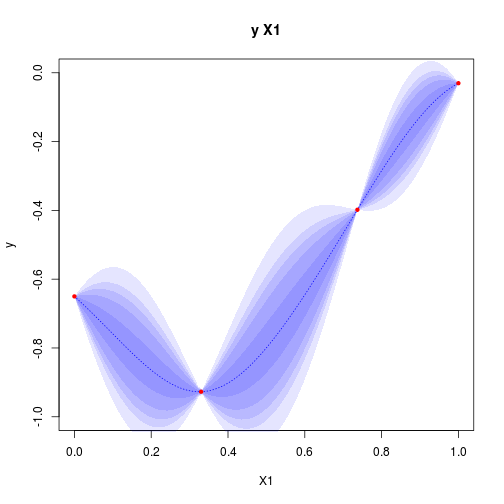
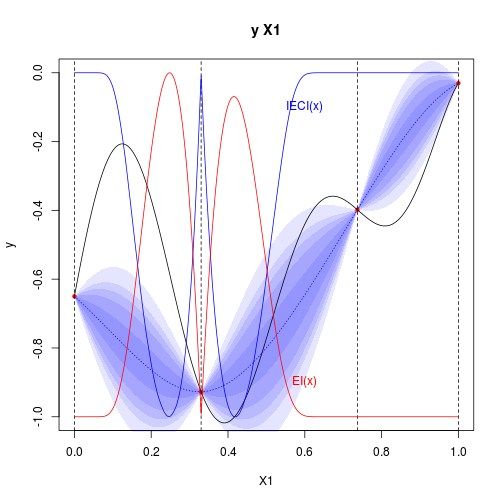
changes for better latex rendering and cleanup images

diff --git a/README.md b/README.md
@@ -157,19 +157,8 @@ Overall criterions values (EI and IECI):
 par(mfrow=c(1,1))
 
 sectionview.km(kmi,ylim=c(-1,0))
-```
+abline(v=X$X,lty=2)
 
-![plot of chunk unnamed-chunk-5](figure/unnamed-chunk-5-1.png) 
-
-```r
-abline(v=X,lty=2)
-```
-
-```
-## Error in int_abline(a = a, b = b, h = h, v = v, untf = untf, ...): l'objet (list) ne peut être converti automatiquement en un type 'double'
-```
-
-```r
 n=function(x){(x-min(x))/(max(x)-min(x))-1}
 
 xx=seq(f=0,t=1,l=1000)
@@ -210,126 +199,128 @@ lines(xx,n(EI(xx,model=kmi)),col='red')
 text(labels="EI(x)",x=0.6,y=0.1-1,col='red')
 ```
 
+![plot of chunk unnamed-chunk-5](figure/unnamed-chunk-5-1.png) 
+
 
 
 ## Analytical development of IECI:
 
 
-<img src="https://rawgit.com/IRSN/IECI/master/eq_no_01.png" alt="Equation Fail">
+<img src="https://rawgit.com/IRSN/IECI/master//figure/eq_no_01.png" height="30">
 
 
 ### Computable form of ECI
 
 ECI is viewed in two main parts : updated realizations where the new conditional point 
-<img src="https://rawgit.com/IRSN/IECI/master/eq_no_37.png" alt="Equation Fail">
+<img src="https://rawgit.com/IRSN/IECI/master//figure/eq_no_37.png" height="30">
  is below current minimum 
-<img src="https://rawgit.com/IRSN/IECI/master/eq_no_38.png" alt="Equation Fail">
+<img src="https://rawgit.com/IRSN/IECI/master//figure/eq_no_38.png" height="30">
 , and updated realizations where the new conditional point 
-<img src="https://rawgit.com/IRSN/IECI/master/eq_no_39.png" alt="Equation Fail">
+<img src="https://rawgit.com/IRSN/IECI/master//figure/eq_no_39.png" height="30">
  is over current minimum 
-<img src="https://rawgit.com/IRSN/IECI/master/eq_no_40.png" alt="Equation Fail">
+<img src="https://rawgit.com/IRSN/IECI/master//figure/eq_no_40.png" height="30">
  (which then does not change this current minimum for EI calculation):
 
 
-<img src="https://rawgit.com/IRSN/IECI/master/eq_no_02.png" alt="Equation Fail">
+<img src="https://rawgit.com/IRSN/IECI/master//figure/eq_no_02.png" height="30">
 
 
 * 
-<img src="https://rawgit.com/IRSN/IECI/master/eq_no_41.png" alt="Equation Fail">
+<img src="https://rawgit.com/IRSN/IECI/master//figure/eq_no_41.png" height="30">
  part: 
 
-<img src="https://rawgit.com/IRSN/IECI/master/eq_no_03.png" alt="Equation Fail">
+<img src="https://rawgit.com/IRSN/IECI/master//figure/eq_no_03.png" height="30">
  
 
-<img src="https://rawgit.com/IRSN/IECI/master/eq_no_04.png" alt="Equation Fail">
+<img src="https://rawgit.com/IRSN/IECI/master//figure/eq_no_04.png" height="30">
 
 Change variable: 
-<img src="https://rawgit.com/IRSN/IECI/master/eq_no_42.png" alt="Equation Fail">
+<img src="https://rawgit.com/IRSN/IECI/master//figure/eq_no_42.png" height="30">
 
   -  
-<img src="https://rawgit.com/IRSN/IECI/master/eq_no_43.png" alt="Equation Fail">
+<img src="https://rawgit.com/IRSN/IECI/master//figure/eq_no_43.png" height="30">
 
   -  
-<img src="https://rawgit.com/IRSN/IECI/master/eq_no_44.png" alt="Equation Fail">
+<img src="https://rawgit.com/IRSN/IECI/master//figure/eq_no_44.png" height="30">
 
   -  
-<img src="https://rawgit.com/IRSN/IECI/master/eq_no_45.png" alt="Equation Fail">
+<img src="https://rawgit.com/IRSN/IECI/master//figure/eq_no_45.png" height="30">
 
   
 So,
 
-<img src="https://rawgit.com/IRSN/IECI/master/eq_no_05.png" alt="Equation Fail">
+<img src="https://rawgit.com/IRSN/IECI/master//figure/eq_no_05.png" height="30">
 
 
-<img src="https://rawgit.com/IRSN/IECI/master/eq_no_06.png" alt="Equation Fail">
+<img src="https://rawgit.com/IRSN/IECI/master//figure/eq_no_06.png" height="30">
 
 Considering that ([@KrigingUpdate]),
 
-<img src="https://rawgit.com/IRSN/IECI/master/eq_no_07.png" alt="Equation Fail">
+<img src="https://rawgit.com/IRSN/IECI/master//figure/eq_no_07.png" height="30">
 
 
-<img src="https://rawgit.com/IRSN/IECI/master/eq_no_08.png" alt="Equation Fail">
+<img src="https://rawgit.com/IRSN/IECI/master//figure/eq_no_08.png" height="30">
 
 
 Finally, 
-<img src="https://rawgit.com/IRSN/IECI/master/eq_no_09.png" alt="Equation Fail">
+<img src="https://rawgit.com/IRSN/IECI/master//figure/eq_no_09.png" height="30">
 
 
-<img src="https://rawgit.com/IRSN/IECI/master/eq_no_10.png" alt="Equation Fail">
+<img src="https://rawgit.com/IRSN/IECI/master//figure/eq_no_10.png" height="30">
 
 Given,
 
-<img src="https://rawgit.com/IRSN/IECI/master/eq_no_11.png" alt="Equation Fail">
+<img src="https://rawgit.com/IRSN/IECI/master//figure/eq_no_11.png" height="30">
 
 
-<img src="https://rawgit.com/IRSN/IECI/master/eq_no_12.png" alt="Equation Fail">
+<img src="https://rawgit.com/IRSN/IECI/master//figure/eq_no_12.png" height="30">
 
 
 
 
 
 * 
-<img src="https://rawgit.com/IRSN/IECI/master/eq_no_46.png" alt="Equation Fail">
+<img src="https://rawgit.com/IRSN/IECI/master//figure/eq_no_46.png" height="30">
  part: 
 
-<img src="https://rawgit.com/IRSN/IECI/master/eq_no_13.png" alt="Equation Fail">
+<img src="https://rawgit.com/IRSN/IECI/master//figure/eq_no_13.png" height="30">
 
 
-<img src="https://rawgit.com/IRSN/IECI/master/eq_no_14.png" alt="Equation Fail">
+<img src="https://rawgit.com/IRSN/IECI/master//figure/eq_no_14.png" height="30">
 
 Change variable: 
-<img src="https://rawgit.com/IRSN/IECI/master/eq_no_47.png" alt="Equation Fail">
+<img src="https://rawgit.com/IRSN/IECI/master//figure/eq_no_47.png" height="30">
 
   -  
-<img src="https://rawgit.com/IRSN/IECI/master/eq_no_48.png" alt="Equation Fail">
+<img src="https://rawgit.com/IRSN/IECI/master//figure/eq_no_48.png" height="30">
 
   -  
-<img src="https://rawgit.com/IRSN/IECI/master/eq_no_49.png" alt="Equation Fail">
+<img src="https://rawgit.com/IRSN/IECI/master//figure/eq_no_49.png" height="30">
 
   -  
-<img src="https://rawgit.com/IRSN/IECI/master/eq_no_50.png" alt="Equation Fail">
+<img src="https://rawgit.com/IRSN/IECI/master//figure/eq_no_50.png" height="30">
 
 
 So,
 
-<img src="https://rawgit.com/IRSN/IECI/master/eq_no_15.png" alt="Equation Fail">
+<img src="https://rawgit.com/IRSN/IECI/master//figure/eq_no_15.png" height="30">
 
 
-<img src="https://rawgit.com/IRSN/IECI/master/eq_no_16.png" alt="Equation Fail">
+<img src="https://rawgit.com/IRSN/IECI/master//figure/eq_no_16.png" height="30">
 
 
 Finally, 
-<img src="https://rawgit.com/IRSN/IECI/master/eq_no_17.png" alt="Equation Fail">
+<img src="https://rawgit.com/IRSN/IECI/master//figure/eq_no_17.png" height="30">
 
 
-<img src="https://rawgit.com/IRSN/IECI/master/eq_no_18.png" alt="Equation Fail">
+<img src="https://rawgit.com/IRSN/IECI/master//figure/eq_no_18.png" height="30">
 
 Given,
 
-<img src="https://rawgit.com/IRSN/IECI/master/eq_no_19.png" alt="Equation Fail">
+<img src="https://rawgit.com/IRSN/IECI/master//figure/eq_no_19.png" height="30">
 
 
-<img src="https://rawgit.com/IRSN/IECI/master/eq_no_20.png" alt="Equation Fail">
+<img src="https://rawgit.com/IRSN/IECI/master//figure/eq_no_20.png" height="30">
 
 
 
@@ -337,92 +328,92 @@ Given,
 These integrals need the following expressions to become tractable:
 
 * 
-<img src="https://rawgit.com/IRSN/IECI/master/eq_no_51.png" alt="Equation Fail">
+<img src="https://rawgit.com/IRSN/IECI/master//figure/eq_no_51.png" height="30">
 
 * 
-<img src="https://rawgit.com/IRSN/IECI/master/eq_no_52.png" alt="Equation Fail">
+<img src="https://rawgit.com/IRSN/IECI/master//figure/eq_no_52.png" height="30">
 
 
 We have (see below):
 
 
-<img src="https://rawgit.com/IRSN/IECI/master/eq_no_21.png" alt="Equation Fail">
+<img src="https://rawgit.com/IRSN/IECI/master//figure/eq_no_21.png" height="30">
 
 
 And
 
 
-<img src="https://rawgit.com/IRSN/IECI/master/eq_no_22.png" alt="Equation Fail">
+<img src="https://rawgit.com/IRSN/IECI/master//figure/eq_no_22.png" height="30">
 
 
-<img src="https://rawgit.com/IRSN/IECI/master/eq_no_23.png" alt="Equation Fail">
+<img src="https://rawgit.com/IRSN/IECI/master//figure/eq_no_23.png" height="30">
 
 
-<img src="https://rawgit.com/IRSN/IECI/master/eq_no_24.png" alt="Equation Fail">
+<img src="https://rawgit.com/IRSN/IECI/master//figure/eq_no_24.png" height="30">
 
 
 It should be noticed that this exact calculation of ECI is vectorizable, which means that synchronized computations may be performed in an efficient manner.
 
 
 ### Detailed calculation of integrals in 
-<img src="https://rawgit.com/IRSN/IECI/master/eq_no_53.png" alt="Equation Fail">
+<img src="https://rawgit.com/IRSN/IECI/master//figure/eq_no_53.png" height="30">
  and 
-<img src="https://rawgit.com/IRSN/IECI/master/eq_no_54.png" alt="Equation Fail">
+<img src="https://rawgit.com/IRSN/IECI/master//figure/eq_no_54.png" height="30">
 
 
 #### 
-<img src="https://rawgit.com/IRSN/IECI/master/eq_no_55.png" alt="Equation Fail">
+<img src="https://rawgit.com/IRSN/IECI/master//figure/eq_no_55.png" height="30">
 
 
 
-<img src="https://rawgit.com/IRSN/IECI/master/eq_no_25.png" alt="Equation Fail">
+<img src="https://rawgit.com/IRSN/IECI/master//figure/eq_no_25.png" height="30">
 
 
-<img src="https://rawgit.com/IRSN/IECI/master/eq_no_26.png" alt="Equation Fail">
+<img src="https://rawgit.com/IRSN/IECI/master//figure/eq_no_26.png" height="30">
 
 
-<img src="https://rawgit.com/IRSN/IECI/master/eq_no_27.png" alt="Equation Fail">
+<img src="https://rawgit.com/IRSN/IECI/master//figure/eq_no_27.png" height="30">
 
 
 
 #### 
-<img src="https://rawgit.com/IRSN/IECI/master/eq_no_56.png" alt="Equation Fail">
+<img src="https://rawgit.com/IRSN/IECI/master//figure/eq_no_56.png" height="30">
 
 
 
 Changing variable: 
-<img src="https://rawgit.com/IRSN/IECI/master/eq_no_57.png" alt="Equation Fail">
+<img src="https://rawgit.com/IRSN/IECI/master//figure/eq_no_57.png" height="30">
 ,
 
-<img src="https://rawgit.com/IRSN/IECI/master/eq_no_28.png" alt="Equation Fail">
+<img src="https://rawgit.com/IRSN/IECI/master//figure/eq_no_28.png" height="30">
 
 
-<img src="https://rawgit.com/IRSN/IECI/master/eq_no_29.png" alt="Equation Fail">
+<img src="https://rawgit.com/IRSN/IECI/master//figure/eq_no_29.png" height="30">
 
 
    * Then, 
-<img src="https://rawgit.com/IRSN/IECI/master/eq_no_30.png" alt="Equation Fail">
+<img src="https://rawgit.com/IRSN/IECI/master//figure/eq_no_30.png" height="30">
 
     
-<img src="https://rawgit.com/IRSN/IECI/master/eq_no_31.png" alt="Equation Fail">
+<img src="https://rawgit.com/IRSN/IECI/master//figure/eq_no_31.png" height="30">
 
    * And, 
-<img src="https://rawgit.com/IRSN/IECI/master/eq_no_32.png" alt="Equation Fail">
+<img src="https://rawgit.com/IRSN/IECI/master//figure/eq_no_32.png" height="30">
 
   We use the bi-normal cumulative density approximation [@Genz1992]: 
   
-<img src="https://rawgit.com/IRSN/IECI/master/eq_no_33.png" alt="Equation Fail">
+<img src="https://rawgit.com/IRSN/IECI/master//figure/eq_no_33.png" height="30">
 
   Changing variable 
-<img src="https://rawgit.com/IRSN/IECI/master/eq_no_58.png" alt="Equation Fail">
+<img src="https://rawgit.com/IRSN/IECI/master//figure/eq_no_58.png" height="30">
 , 
-<img src="https://rawgit.com/IRSN/IECI/master/eq_no_34.png" alt="Equation Fail">
+<img src="https://rawgit.com/IRSN/IECI/master//figure/eq_no_34.png" height="30">
 
 and thus, 
 
-<img src="https://rawgit.com/IRSN/IECI/master/eq_no_35.png" alt="Equation Fail">
+<img src="https://rawgit.com/IRSN/IECI/master//figure/eq_no_35.png" height="30">
  
-<img src="https://rawgit.com/IRSN/IECI/master/eq_no_36.png" alt="Equation Fail">
+<img src="https://rawgit.com/IRSN/IECI/master//figure/eq_no_36.png" height="30">
 
 
 
